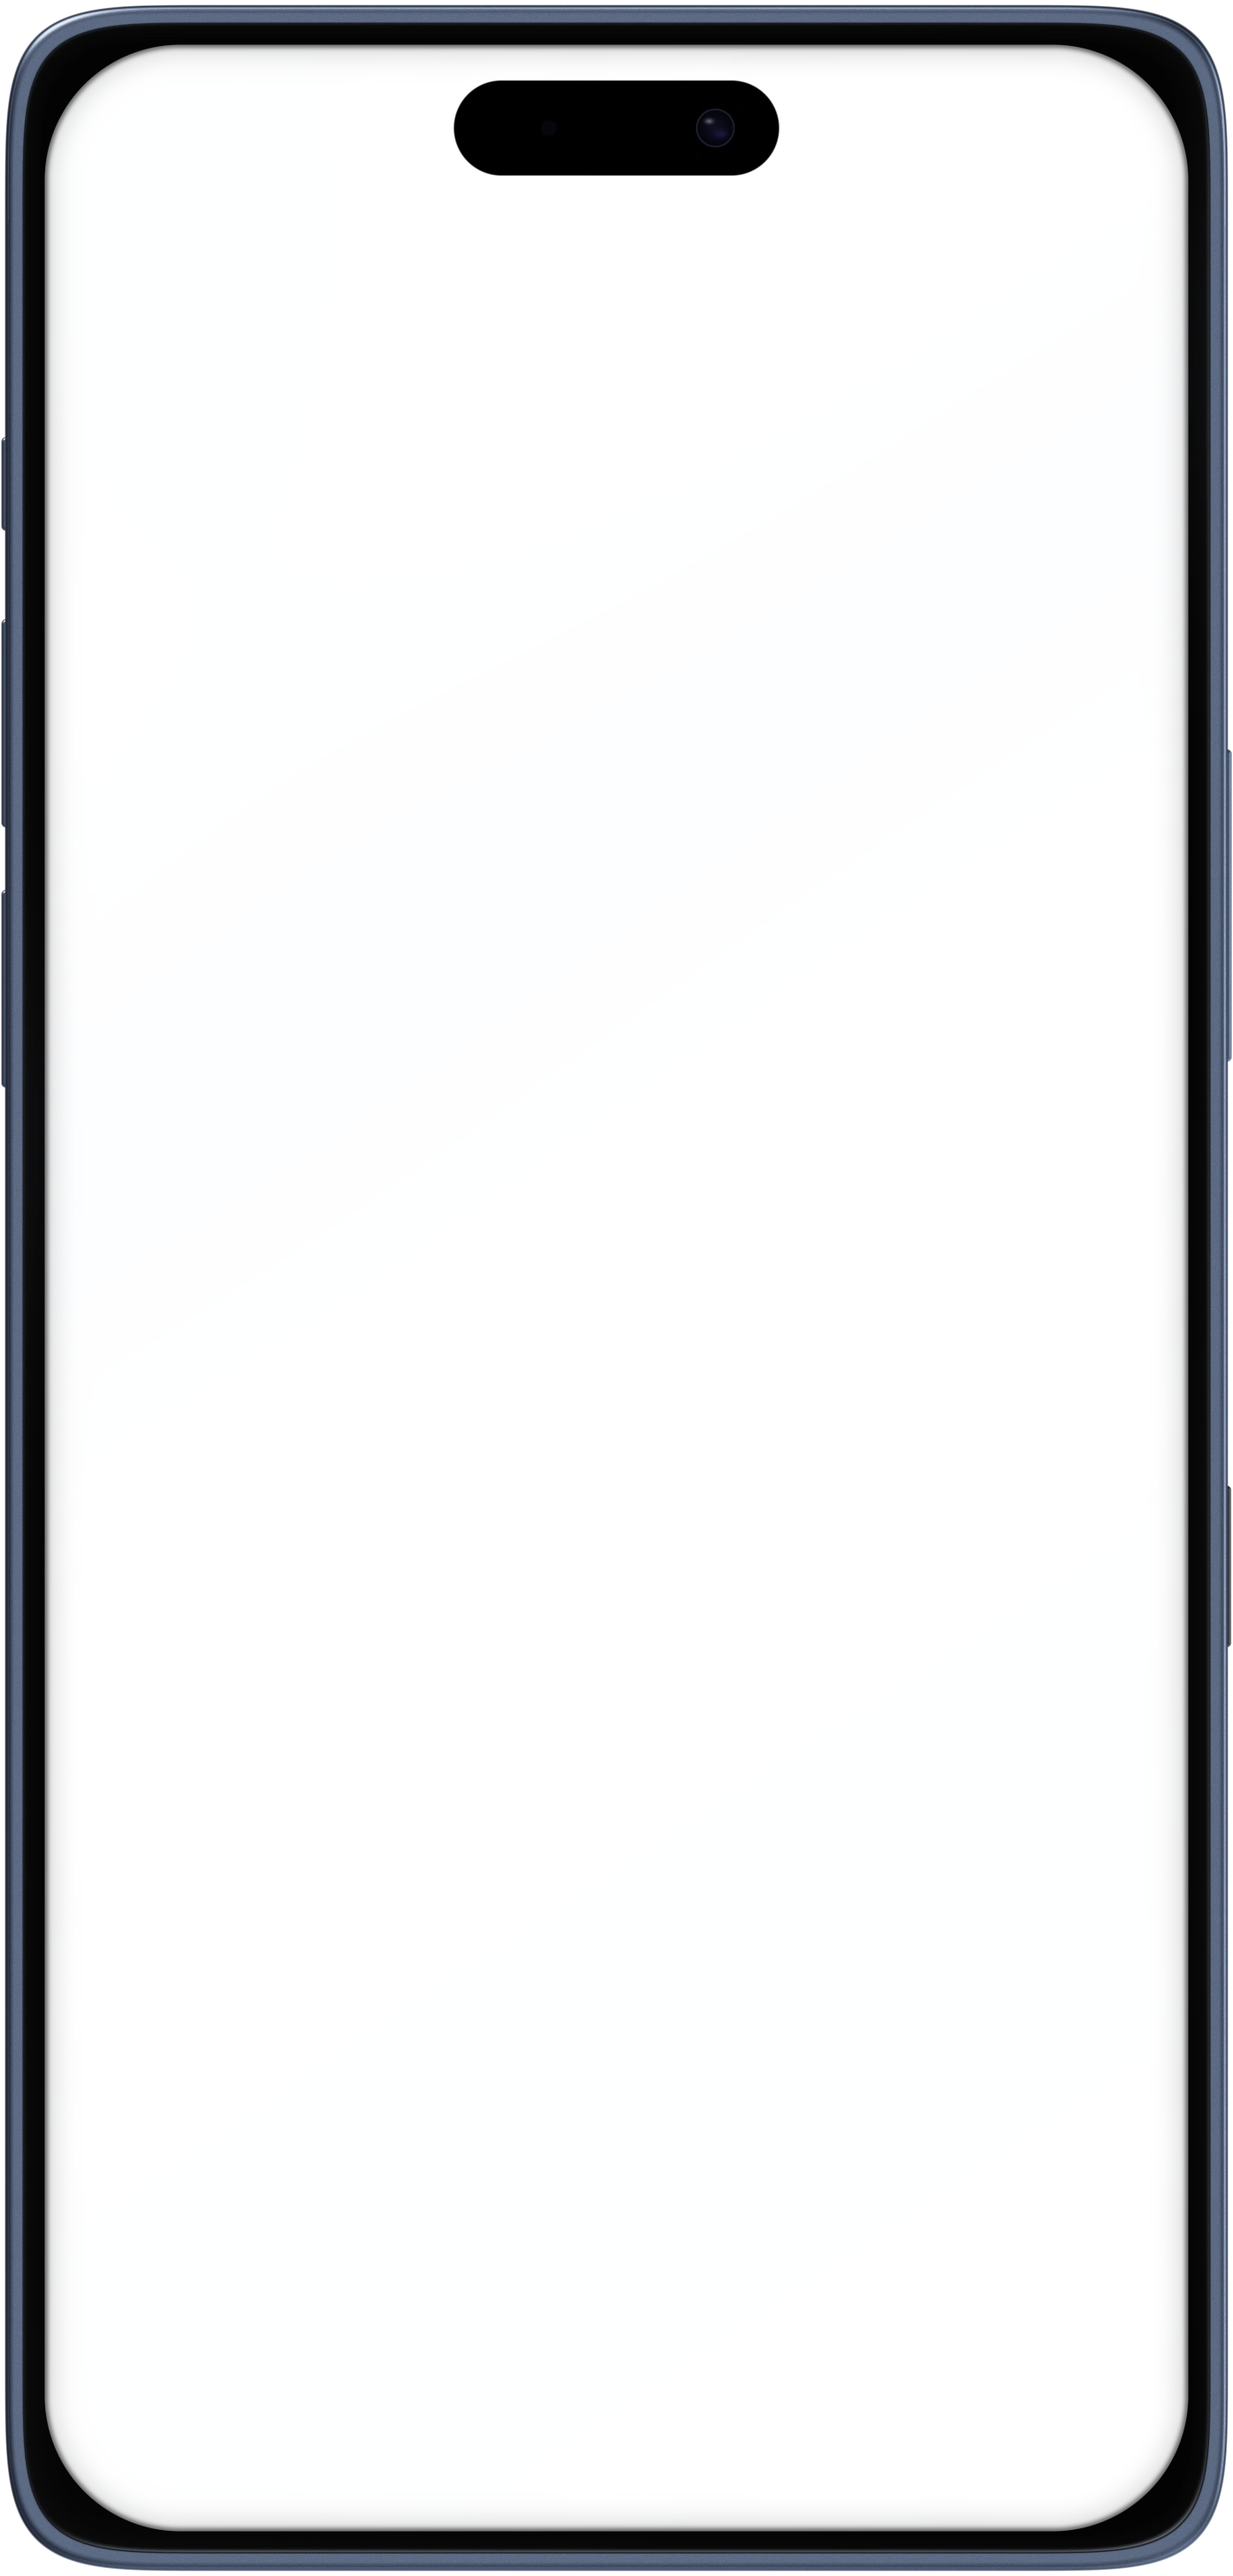
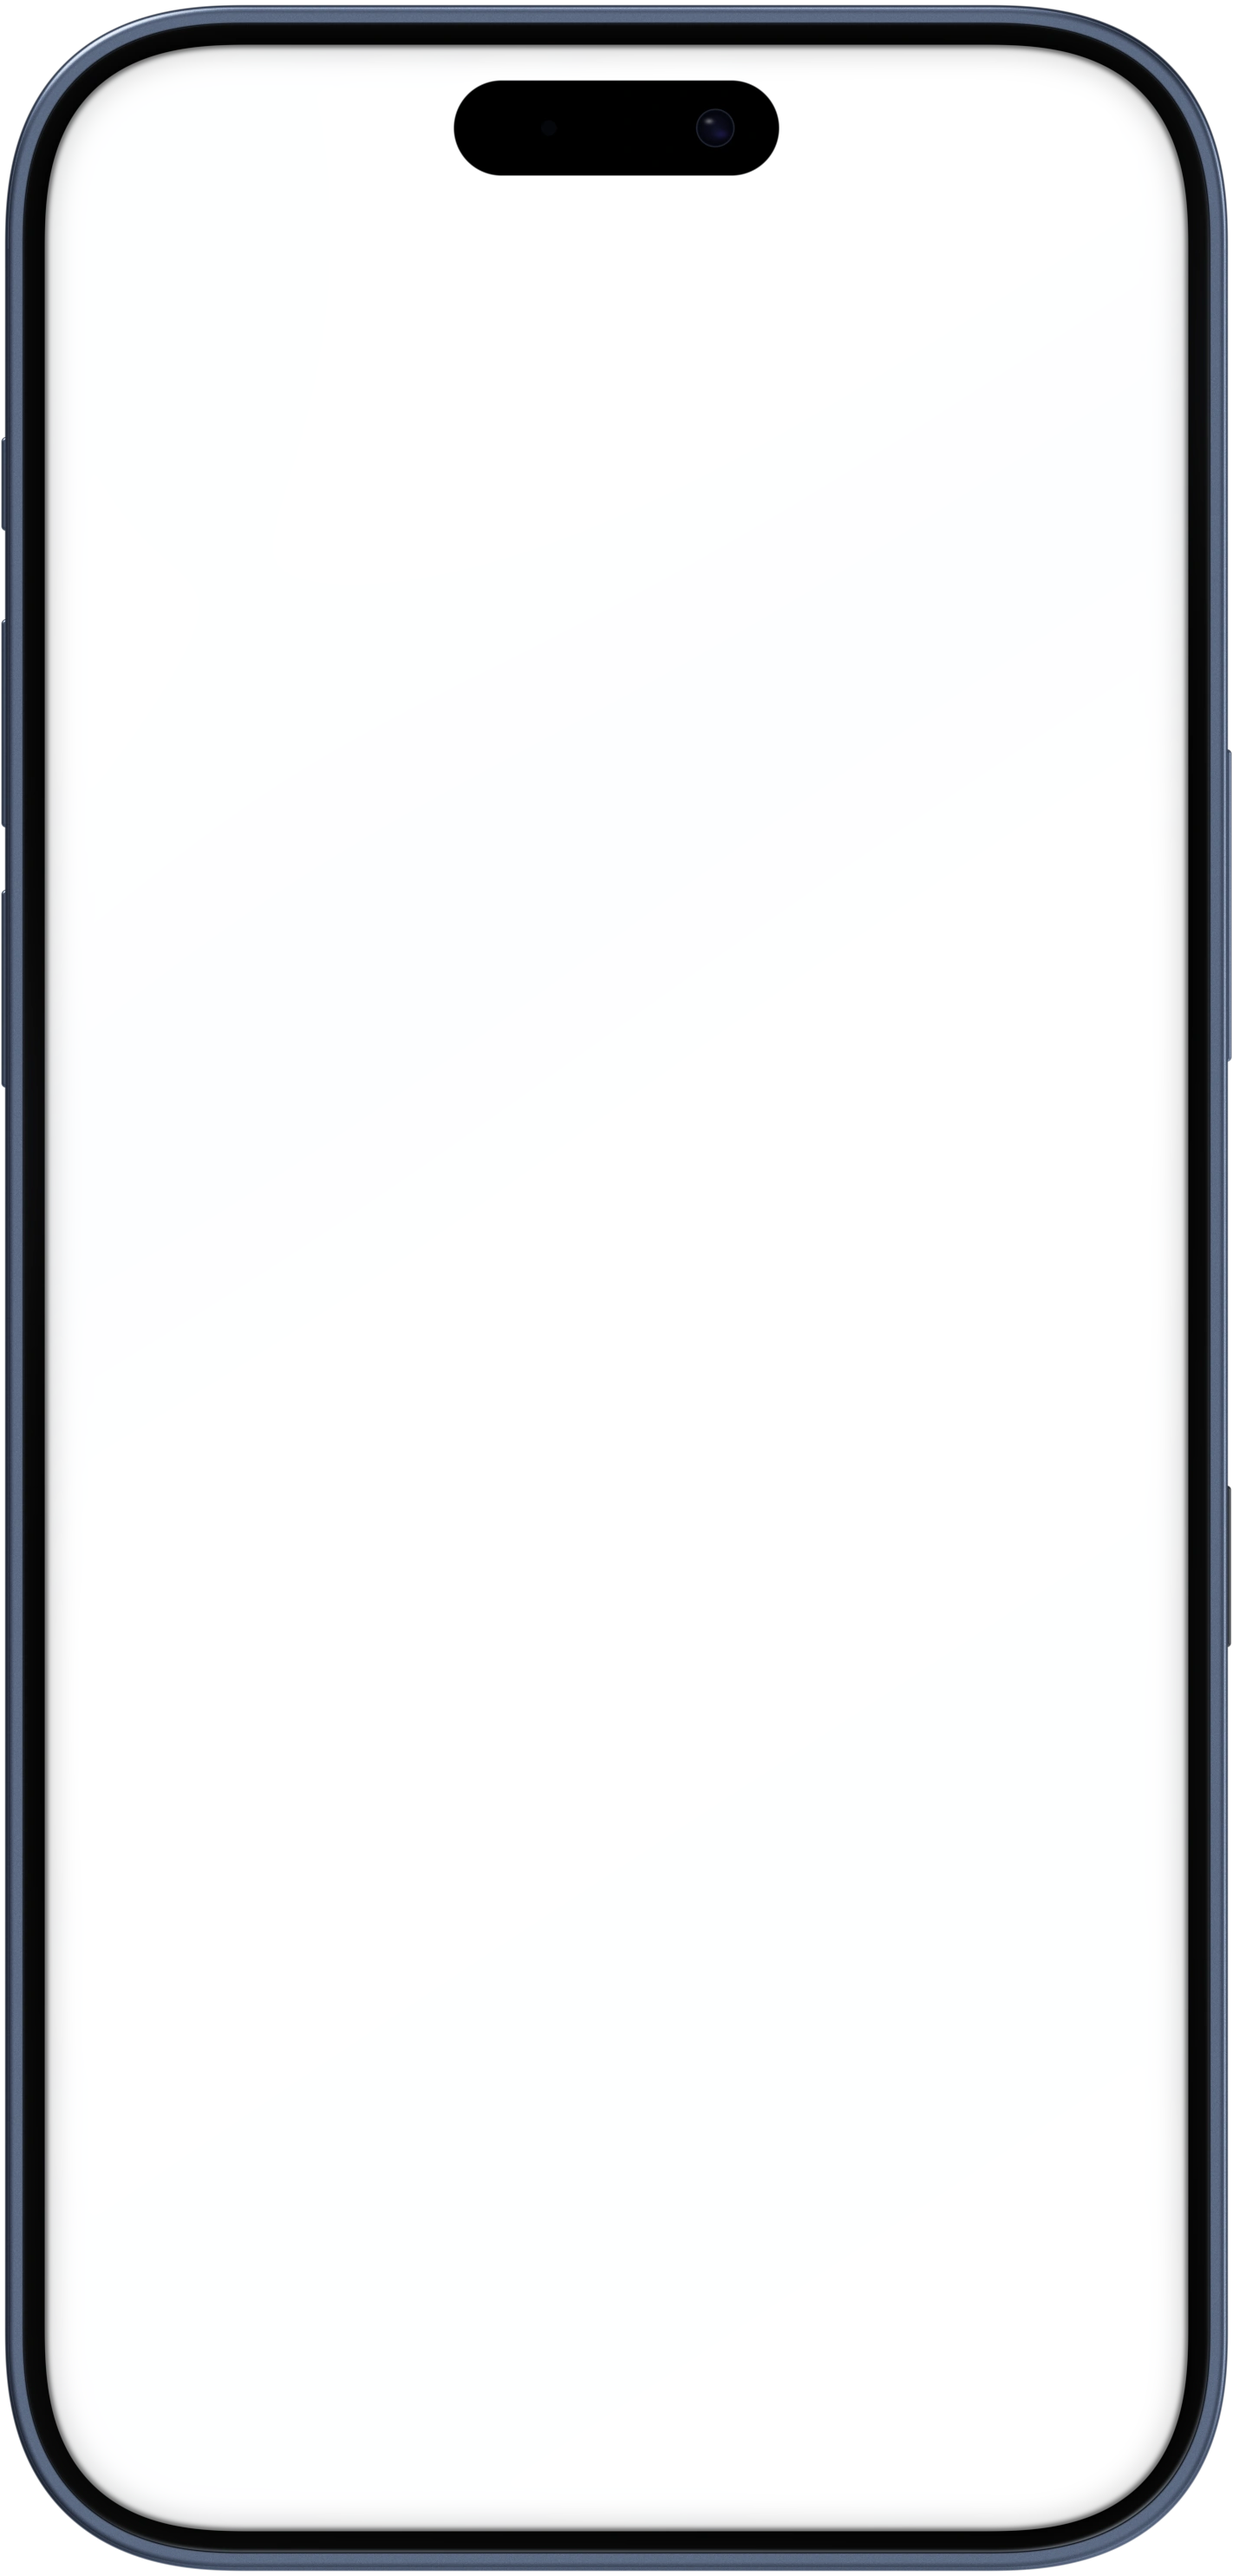
Arrondis de l'iPhone et de la montre mesurés sur les contours réels (corps r=93,5 n=2,5 ; écran r=80,5 n=2,7)

diff --git a/index.html b/index.html
@@ -115,7 +115,7 @@ h1,.chap h2,.fnd h2,.final h2,.hs h2{text-wrap:balance}
 .phone-svg .scr image{opacity:0;will-change:opacity}
 .phone-svg .hl rect{fill:none;stroke:#56ccff;stroke-width:2.4;opacity:0;filter:drop-shadow(0 0 5px rgba(86,204,255,.9))}
 .watch{position:absolute;left:calc(50% + var(--ph)*.2394 + 22px);top:50%;width:clamp(130px,14vw,210px);aspect-ratio:512/582;transform:translateY(-70%);opacity:0;filter:drop-shadow(0 26px 30px rgba(0,0,0,.45))}
-.watch .wscr{position:absolute;left:8.4%;top:7.39%;width:81.25%;height:85.2%;overflow:hidden;border-radius:15% / 13%}
+.watch .wscr{position:absolute;left:8.4%;top:7.39%;width:81.25%;height:85.2%;overflow:hidden;clip-path:url(#wclip)}
 .watch .wscr img{width:100%;height:100%;object-fit:cover}
 .watch .wf{position:absolute;inset:0;width:100%;height:100%}
 
@@ -286,18 +286,19 @@ footer small{display:block;margin-top:12px;font-size:12px}
   <small class="cap mut" data-i18n="maniS">Replay · Vitesse · Sécurité · Amis</small>
 </section>
 
+<svg width="0" height="0" style="position:absolute" aria-hidden="true"><defs><clipPath id="wclip" clipPathUnits="objectBoundingBox"><path d="M0.70264 0.00000 L0.73231 0.00032 L0.75423 0.00125 L0.77385 0.00282 L0.79202 0.00502 L0.80906 0.00782 L0.82522 0.01127 L0.84053 0.01530 L0.85512 0.01996 L0.86897 0.02522 L0.88214 0.03109 L0.89462 0.03754 L0.90642 0.04458 L0.91755 0.05220 L0.92800 0.06038 L0.93776 0.06915 L0.94685 0.07849 L0.95524 0.08839 L0.96293 0.09885 L0.96993 0.10990 L0.97620 0.12151 L0.98175 0.13375 L0.98656 0.14659 L0.99067 0.16014 L0.99401 0.17444 L0.99663 0.18968 L0.99851 0.20613 L0.99962 0.22452 L1.00000 0.24940 L1.00000 0.75060 L0.99962 0.77548 L0.99851 0.79387 L0.99663 0.81032 L0.99401 0.82556 L0.99067 0.83986 L0.98656 0.85341 L0.98175 0.86625 L0.97620 0.87849 L0.96993 0.89010 L0.96293 0.90115 L0.95524 0.91161 L0.94685 0.92151 L0.93776 0.93085 L0.92800 0.93962 L0.91755 0.94780 L0.90642 0.95542 L0.89462 0.96246 L0.88214 0.96891 L0.86897 0.97478 L0.85512 0.98004 L0.84053 0.98470 L0.82522 0.98873 L0.80906 0.99218 L0.79202 0.99498 L0.77385 0.99718 L0.75423 0.99875 L0.73231 0.99968 L0.70264 1.00000 L0.29736 1.00000 L0.26769 0.99968 L0.24577 0.99875 L0.22615 0.99718 L0.20798 0.99498 L0.19094 0.99218 L0.17478 0.98873 L0.15947 0.98470 L0.14488 0.98004 L0.13103 0.97478 L0.11786 0.96891 L0.10538 0.96246 L0.09358 0.95542 L0.08245 0.94780 L0.07200 0.93962 L0.06224 0.93085 L0.05315 0.92151 L0.04476 0.91161 L0.03707 0.90115 L0.03007 0.89010 L0.02380 0.87849 L0.01825 0.86625 L0.01344 0.85341 L0.00933 0.83986 L0.00599 0.82556 L0.00337 0.81032 L0.00149 0.79387 L0.00038 0.77548 L0.00000 0.75060 L0.00000 0.24940 L0.00038 0.22452 L0.00149 0.20613 L0.00337 0.18968 L0.00599 0.17444 L0.00933 0.16014 L0.01344 0.14659 L0.01825 0.13375 L0.02380 0.12151 L0.03007 0.10990 L0.03707 0.09885 L0.04476 0.08839 L0.05315 0.07849 L0.06224 0.06915 L0.07200 0.06038 L0.08245 0.05220 L0.09358 0.04458 L0.10538 0.03754 L0.11786 0.03109 L0.13103 0.02522 L0.14488 0.01996 L0.15947 0.01530 L0.17478 0.01127 L0.19094 0.00782 L0.20798 0.00502 L0.22615 0.00282 L0.24577 0.00125 L0.26769 0.00032 L0.29736 0.00000Z"/></clipPath></defs></svg>
 <section class="story" id="fonctions"><div class="pin" id="pin">
   <div class="bgwrap" id="panel"><img src="assets/m01.webp" alt=""><img src="assets/m02.webp" alt=""><img src="assets/m03.webp" alt=""><img src="assets/m04.webp" alt=""><img src="assets/m05.webp" alt=""></div>
   <div class="stage">
     <div class="dev" id="dev"><div class="body" id="devBody">
       <svg class="phone-svg" viewBox="0 0 474 990" aria-hidden="true">
-        <defs><clipPath id="scrClip"><rect x="17" y="17" width="440" height="956" rx="52"/></clipPath></defs>
+        <defs><clipPath id="scrClip"><path d="M376.80 17.00 L386.29 17.09 L392.64 17.37 L398.15 17.84 L403.15 18.49 L407.77 19.33 L412.10 20.36 L416.17 21.57 L420.01 22.96 L423.63 24.54 L427.05 26.30 L430.28 28.24 L433.32 30.37 L436.17 32.67 L438.84 35.16 L441.33 37.83 L443.63 40.68 L445.76 43.72 L447.70 46.95 L449.46 50.37 L451.04 53.99 L452.43 57.83 L453.64 61.90 L454.67 66.23 L455.51 70.85 L456.16 75.85 L456.63 81.36 L456.91 87.71 L457.00 97.20 L457.00 892.80 L456.91 902.29 L456.63 908.64 L456.16 914.15 L455.51 919.15 L454.67 923.77 L453.64 928.10 L452.43 932.17 L451.04 936.01 L449.46 939.63 L447.70 943.05 L445.76 946.28 L443.63 949.32 L441.33 952.17 L438.84 954.84 L436.17 957.33 L433.32 959.63 L430.28 961.76 L427.05 963.70 L423.63 965.46 L420.01 967.04 L416.17 968.43 L412.10 969.64 L407.77 970.67 L403.15 971.51 L398.15 972.16 L392.64 972.63 L386.29 972.91 L376.80 973.00 L97.20 973.00 L87.71 972.91 L81.36 972.63 L75.85 972.16 L70.85 971.51 L66.23 970.67 L61.90 969.64 L57.83 968.43 L53.99 967.04 L50.37 965.46 L46.95 963.70 L43.72 961.76 L40.68 959.63 L37.83 957.33 L35.16 954.84 L32.67 952.17 L30.37 949.32 L28.24 946.28 L26.30 943.05 L24.54 939.63 L22.96 936.01 L21.57 932.17 L20.36 928.10 L19.33 923.77 L18.49 919.15 L17.84 914.15 L17.37 908.64 L17.09 902.29 L17.00 892.80 L17.00 97.20 L17.09 87.71 L17.37 81.36 L17.84 75.85 L18.49 70.85 L19.33 66.23 L20.36 61.90 L21.57 57.83 L22.96 53.99 L24.54 50.37 L26.30 46.95 L28.24 43.72 L30.37 40.68 L32.67 37.83 L35.16 35.16 L37.83 32.67 L40.68 30.37 L43.72 28.24 L46.95 26.30 L50.37 24.54 L53.99 22.96 L57.83 21.57 L61.90 20.36 L66.23 19.33 L70.85 18.49 L75.85 17.84 L81.36 17.37 L87.71 17.09 L97.20 17.00Z"/></clipPath></defs>
         <g clip-path="url(#scrClip)" class="scr"><image data-src="dashboard" x="17" y="17" width="440" height="956" preserveAspectRatio="xMidYMid slice"/><image data-src="model3d" x="17" y="17" width="440" height="956" preserveAspectRatio="xMidYMid slice"/><image data-src="speedmap" x="17" y="17" width="440" height="956" preserveAspectRatio="xMidYMid slice"/><image data-src="lock" x="17" y="17" width="440" height="956" preserveAspectRatio="xMidYMid slice"/><image data-src="fall" x="17" y="17" width="440" height="956" preserveAspectRatio="xMidYMid slice"/></g>
         <g clip-path="url(#scrClip)" class="hl"><rect x="30.2" y="346.8" width="413.6" height="172.1" rx="26"/><rect x="34.6" y="800.9" width="404.8" height="129.1" rx="26"/><rect x="34.6" y="781.8" width="404.8" height="138.6" rx="26"/><rect x="30.2" y="692.9" width="413.6" height="145.3" rx="26"/><rect x="39.0" y="590.6" width="396.0" height="200.8" rx="26"/></g>
-        <image href="assets/iphone-frame.webp?v=5" x="0" y="0" width="474" height="990"/>
+        <image href="assets/iphone-frame.webp?v=6" x="0" y="0" width="474" height="990"/>
       </svg>
     </div></div>
-    <div class="watch" id="watch"><div class="wscr"><img data-src="watch" alt=""></div><img class="wf" src="assets/watch-frame.webp?v=5" alt=""></div>
+    <div class="watch" id="watch"><div class="wscr"><img data-src="watch" alt=""></div><img class="wf" src="assets/watch-frame.webp?v=6" alt=""></div>
   </div>
 
   <div class="st-text">

diff --git a/assets/film3.js b/assets/film3.js
@@ -315,7 +315,7 @@ void main(){
       list["share-" + l] = "share-" + l + ".webp"; list["watch-" + l] = "watch-" + l + ".webp";
     }
     list["replay-fr"] = "hd/replay-fr.webp";
-    await Promise.all(Object.entries(list).map(([k, v]) => loadImg(BASE + v + "?v=5").then(i => { TEX[k] = makeTexture(i); })));
+    await Promise.all(Object.entries(list).map(([k, v]) => loadImg(BASE + v + "?v=6").then(i => { TEX[k] = makeTexture(i); })));
     TEX["replay-en"] = TEX["replay-fr"];
     ready = true; loading = false;
   }
@@ -512,7 +512,7 @@ void main(){
   /* ───────────── appareils : toujours de face (jamais inclinés), formes officielles, ombres douces ───────────── */
   const PN = 4.6;                                           // exposant des coins « continus » de l'iPhone
   /* ombre diffuse : l'aplat SDF s'éteint vers ses bords, le quad est donc plus grand que l'objet de la moitié de la zone d'extinction */
-  function softShadow(cx, cy, z, bw, bh, r, kk, a, n = PN) {
+  function softShadow(cx, cy, z, bw, bh, r, kk, a, n = 2.5) {
     const m = kk * 0.7;
     quad({ x: cx, y: cy, z, w: bw + m * 2, h: bh + m * 2, r: r + m, n, mode: 4, aux: [kk, 0], a });
   }
@@ -520,7 +520,7 @@ void main(){
 
   /* châssis officiel de l'iPhone 17 Pro Max (art vectoriel du Simulateur Xcode, 474×990 pt, écran 440×956 pt à (17,17)) */
   function phone(o) {
-    const k = o.w / 474, FW = 474 * k, FH = 990 * k, sw = 440 * k, sh = 956 * k, bw = 470 * k, bh = 986 * k, rb = 86 * k;
+    const k = o.w / 474, FW = 474 * k, FH = 990 * k, sw = 440 * k, sh = 956 * k, bw = 470 * k, bh = 986 * k, rb = 93.5 * k;
     const a = o.a == null ? 1 : o.a, z0 = o.z || 0, cx = o.x, cy = o.y, glow = o.glow == null ? 1 : o.glow;
     if (glow > 0) quad({ x: cx, y: cy, z: z0 - 30, w: FW * 2.4, h: FH * 1.4, mode: 5, tint: [0.12, 0.42, 1, 0.20 * glow], aux: [4.8, 0], a, add: true });
     softShadow(cx, cy - bw * 0.10, z0 - 20, bw, bh, rb, bw * 0.24, a * 0.50);
@@ -528,7 +528,7 @@ void main(){
     // zone visible de la capture (zoom doux vers un point), puis écran, puis châssis par-dessus : le trou du châssis épouse l'écran
     const z = Math.max(1, o.zoom || 1), f = o.focus || [0.5, 0.5], hw = 0.5 / z, fx = clamp(f[0], hw, 1 - hw), fy = clamp(f[1], hw, 1 - hw);
     const rect = [fx - hw, fy - hw, fx + hw, fy + hw];
-    const sc = { x: cx, y: cy, z: z0 + 0.3, w: sw + 1, h: sh + 1, r: 52 * k, a, rect, mode: 0 };
+    const sc = { x: cx, y: cy, z: z0 + 0.3, w: sw + 1, h: sh + 1, r: 80.2 * k, n: 2.7, a, rect, mode: 0 };
     quad(Object.assign({ tex: o.tex }, sc));
     if (o.tex2 && o.mix > 0) quad(Object.assign({}, sc, { tex: o.tex2, a: a * o.mix }));
     const ph = { cx, cy, z: z0, k, sw, sh, rect, a };
@@ -540,7 +540,7 @@ void main(){
   function spotlight(ph, reg, dimA, ringA) {
     const r = ph.rect, X = n => (n - r[0]) / (r[2] - r[0]), Y = n => (n - r[1]) / (r[3] - r[1]), pad = 8 * ph.k;
     const x0 = X(reg[0]), x1 = X(reg[2]), y0 = Y(reg[1]), y1 = Y(reg[3]);
-    const base = { x: ph.cx, y: ph.cy, z: ph.z + 0.5, w: ph.sw + 1, h: ph.sh + 1, r: 52 * ph.k,
+    const base = { x: ph.cx, y: ph.cy, z: ph.z + 0.5, w: ph.sw + 1, h: ph.sh + 1, r: 80.2 * ph.k, n: 2.7,
       light: [((x0 + x1) / 2 - 0.5) * ph.sw, -((y0 + y1) / 2 - 0.5) * ph.sh], aux: [(x1 - x0) / 2 * ph.sw + pad, (y1 - y0) / 2 * ph.sh + pad], bezel: 44 * ph.k };
     if (dimA > 0.002) quad(Object.assign({ mode: 9, tint: [0.01, 0.03, 0.07, 0.52 * dimA], a: ph.a }, base));
     if (ringA > 0.002) quad(Object.assign({ mode: 10, tint: [0.34, 0.80, 1, 0.9 * ringA], a: ph.a, add: true, z: ph.z + 0.6 }, base));
@@ -549,11 +549,11 @@ void main(){
   /* Apple Watch Series 11 46 mm : boîtier officiel seul (sans bracelet), de face */
   function watchObj(o) {
     const T = tx("watch"); if (!T || !TEX["watch-frame"]) return;
-    const k = o.w / 512, FW = 512 * k, FH = 582 * k, a = o.a == null ? 1 : o.a, z0 = o.z || 0, cx = o.x, cy = o.y, bw = 496 * k, bh = 576 * k, rb = 150 * k;
+    const k = o.w / 512, FW = 512 * k, FH = 582 * k, a = o.a == null ? 1 : o.a, z0 = o.z || 0, cx = o.x, cy = o.y, bw = 496 * k, bh = 576 * k, rb = 160 * k;
     quad({ x: cx, y: cy, z: z0 - 30, w: FW * 2.4, h: FH * 1.8, mode: 5, tint: [0.12, 0.42, 1, 0.16], aux: [4.8, 0], a, add: true });
-    softShadow(cx - 5 * k, cy - bw * 0.10, z0 - 20, bw, bh, rb, bw * 0.24, a * 0.50);
-    softShadow(cx - 5 * k, cy - bw * 0.022, z0 - 10, bw, bh, rb, bw * 0.05, a * 0.55);
-    quad({ tex: T, mode: 0, x: cx - 5 * k, y: cy, z: z0 + 0.3, w: 418 * k, h: 498 * k, r: 40 * k, a });
+    softShadow(cx - 5 * k, cy - bw * 0.10, z0 - 20, bw, bh, rb, bw * 0.24, a * 0.50, 2.3);
+    softShadow(cx - 5 * k, cy - bw * 0.022, z0 - 10, bw, bh, rb, bw * 0.05, a * 0.55, 2.3);
+    quad({ tex: T, mode: 0, x: cx - 5 * k, y: cy, z: z0 + 0.3, w: 417 * k, h: 497 * k, r: 123.7 * k, n: 2.5, a });
     quad({ tex: TEX["watch-frame"], mode: 0, x: cx, y: cy, z: z0 + 0.7, w: FW, h: FH, a });
   }
 
